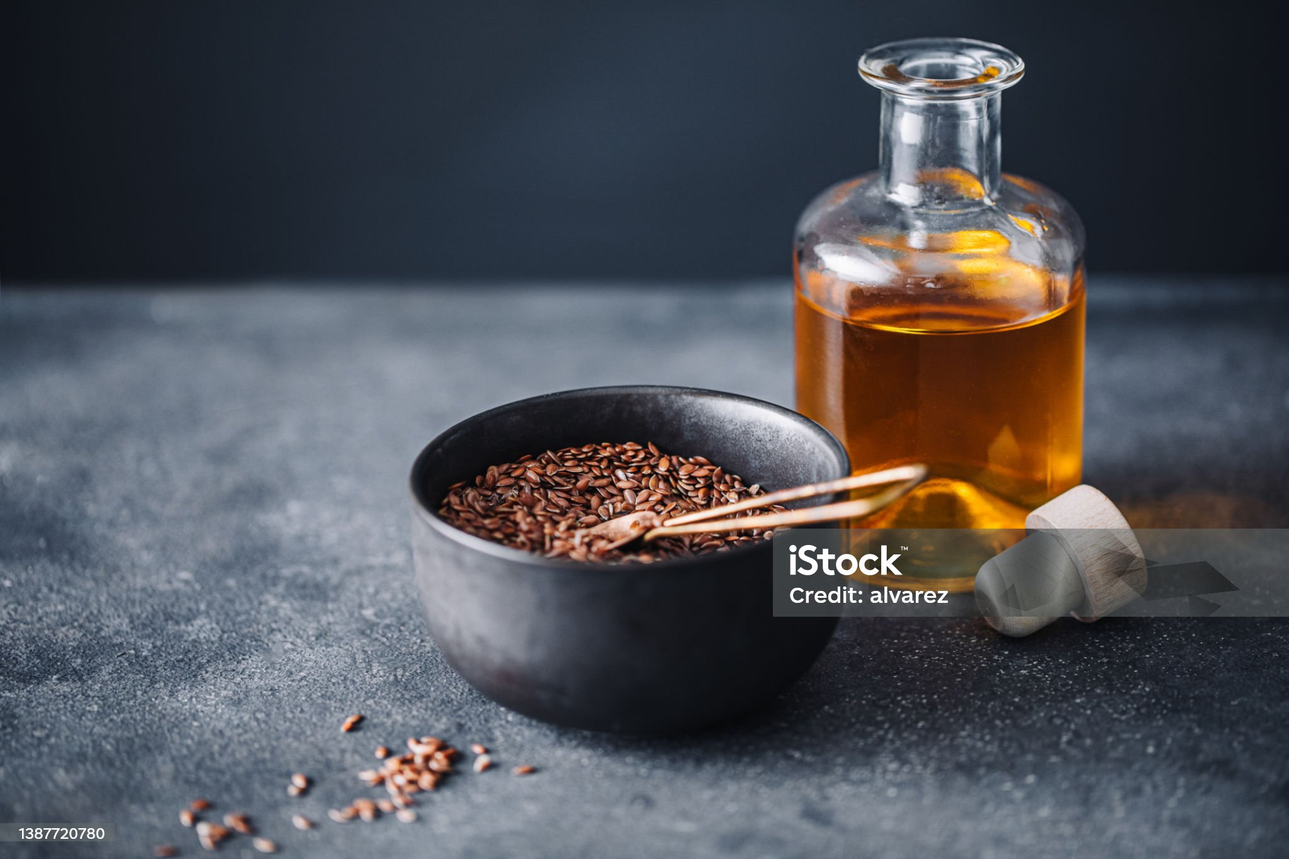
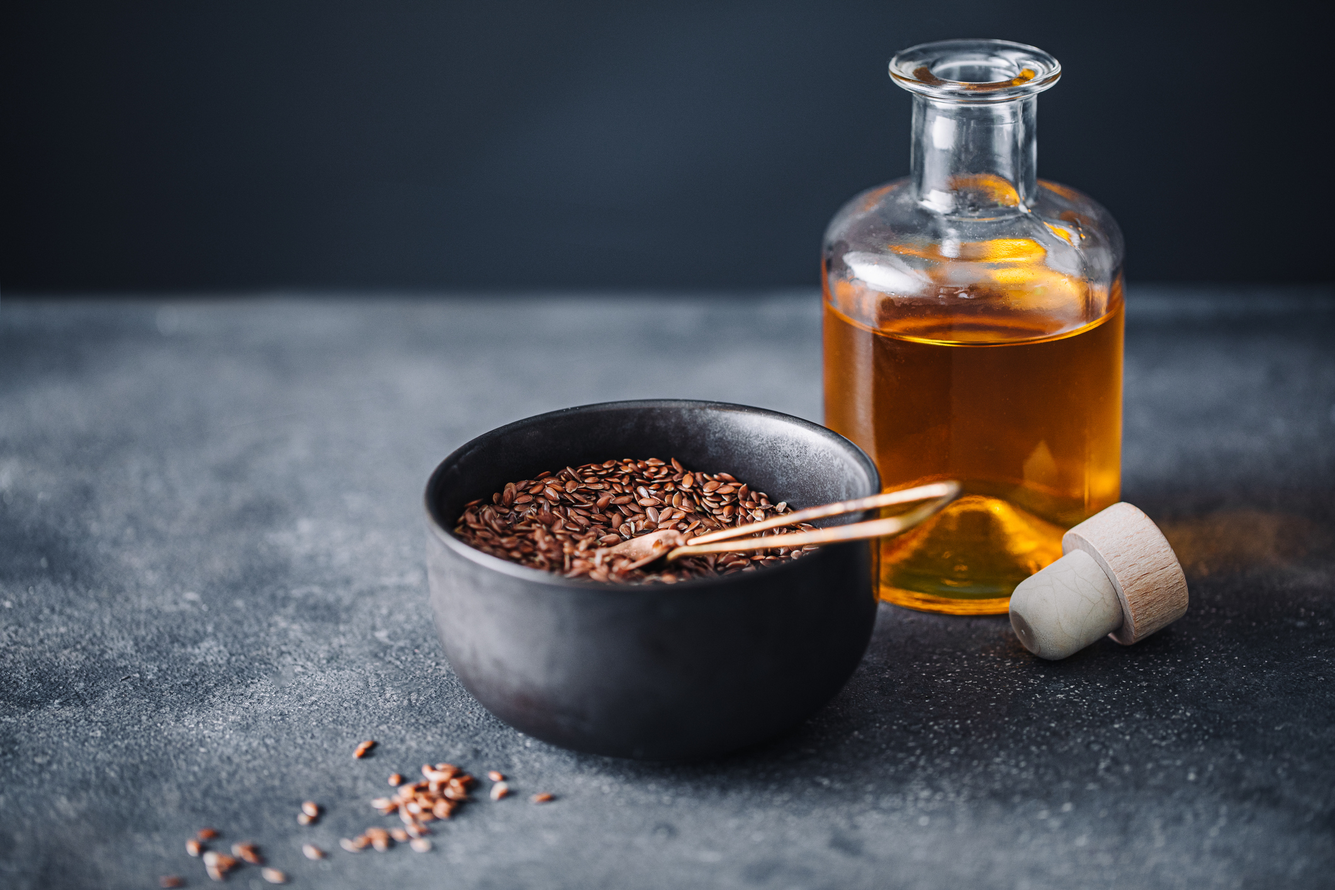
Update photo and scroll highlight effect

Changed region(s): [[0.5938, 0.6154, 1.0, 0.7385], [0.0, 0.9538, 0.0938, 0.9846]]

diff --git a/src/pages/Home.tsx b/src/pages/Home.tsx
@@ -21,39 +21,6 @@ import benefit4 from "../assets/ethically_sourced.jpg";
 // import ScrollFadeText from "../ui/ScrollFadeText";
 
 const Home = () => {
-  // const items = [
-  //   {
-  //     key: "Additive-free",
-  //     description:
-  //       "Our cold-pressed oils are completely additive-free, meaning we skip the chemicals, preservatives, and artificial enhancers that are common in mass-produced oils. By using a traditional cold-pressing method at low temperatures, we extract the pure essence of sesame, black seed, and flaxseed without any need for solvents or synthetic additives. This results in a cleaner, safer product that's free from harmful residues, allowing you to enjoy the authentic taste and health benefits straight from nature. It's ideal for health-conscious cooks who want to avoid hidden ingredients that could compromise well-being or alter flavors in your favorite dishes.",
-  //     image: benefit1,
-  //   },
-  //   {
-  //     key: "Unrefined",
-  //     description:
-  //       "Unlike refined oils that undergo high-heat processing and bleaching, our oils remain unrefined to preserve their natural integrity. The cold-pressing technique gently crushes the seeds at room temperature, retaining the oils' original color, aroma, and texture without stripping away essential compounds. This means our sesame oil keeps its nutty richness, black seed oil its bold, earthy profile, and flaxseed oil its fresh, mild nuttiness. Unrefined oils like ours are perfect for drizzling over salads, dipping bread, or low-heat cooking, delivering a superior sensory experience and avoiding the blandness of overly processed alternatives.",
-  //     image: benefit2,
-  //   },
-  //   {
-  //     key: "Packed with nutrients",
-  //     description:
-  //       "Cold-pressing ensures our oils are bursting with vital nutrients that heat extraction often destroys. We lock in high levels of antioxidants, omega-3 fatty acids (especially abundant in flaxseed oil), vitamins like E and K, and beneficial compounds such as thymoquinone in black seed oil or lignans in sesame oil. These nutrients support heart health, reduce inflammation, boost immunity, and promote glowing skin—making our oils not just a cooking staple but a wellness booster. Whether you're stirring flaxseed oil into smoothies or using sesame oil in stir-fries, you're getting a nutrient-dense option that enhances your diet without the degradation caused by industrial methods.",
-  //     image: benefit3,
-  //   },
-  //   {
-  //     key: "Ethically sourced",
-  //     description:
-  //       "We commit to ethical sourcing by partnering with sustainable farms that prioritize fair labor practices, environmental stewardship, and seed quality. Our sesame, black seed, and flaxseed come from regions where traditional farming respects the land—avoiding pesticides and supporting biodiversity. This approach not only ensures the highest purity but also contributes to community well-being and eco-friendly agriculture. By choosing our oils, you're supporting a transparent supply chain that values people and the planet, aligning your kitchen choices with responsible consumption for a healthier world.",
-  //     image: benefit4,
-  //   },
-  //   // {
-  //   //   key: "Potential Cancer Protection",
-  //   //   description:
-  //   //     "Test-tube and animal studies suggest it could inhibit cancer cell growth in breast, colon, and lung cancers, but human evidence is limited.",
-  //   //   image: benefit5,
-  //   // },
-  // ];
-
   return (
     <>
       <div className="min-h-screen antialiased">
@@ -79,59 +46,6 @@ const Home = () => {
         >
           <WhatWeDo />
         </section>
-
-        {/* Section - Animation */}
-        {/* <section className="rounded py-8 mt-12 sm:py-12 mx-64 my-32 text-pretty text-white text-center text-4xl">
-          <div className="relative flex justify-center items-center gap-20">
-            <p
-              className="relative w-3xs h-72 p-8 flex justify-center items-center bg-[#fac42f] text-shadow-lg
-              animate-[BorderAnimation_3s_linear_infinite] rounded-lg
-              shadow-[inset_20px_20px_40px_10px_rgba(255,255,255,0.8),inset_-3px_-6px_50px_-10px_rgba(0,0,0,0.7)]"
-            >
-              Additive-free
-            </p>
-
-            <p
-              className="relative w-3xs h-60 p-8 flex justify-center items-center bg-[#fac42f] text-shadow-lg
-              animate-[BorderAnimation_6s_linear_infinite] rounded-lg
-              shadow-[inset_15px_10px_50px_20px_rgba(255,255,255,0.8),inset_-5px_-10px_40px_-10px_rgba(0,0,0,0.7)]
-              "
-            >
-              Unrefined
-            </p>
-
-            <p
-              className="relative w-3xs h-84 p-8 flex justify-center items-center bg-[#fac42f] text-shadow-lg
-              animate-[BorderAnimation_7s_linear_infinite] rounded-lg
-              shadow-[inset_20px_20px_30px_5px_rgba(255,255,255,0.8),inset_0px_0px_70px_-20px_rgba(0,0,0,0.7)]"
-            >
-              Packed with nutrients
-            </p>
-
-            <p
-              className="relative w-3xs h-50 p-8 flex justify-center items-center bg-[#fac42f] text-shadow-lg
-              animate-[BorderAnimation_4s_linear_infinite] rounded-lg
-              shadow-[inset_10px_10px_40px_20px_rgba(255,255,255,0.8),inset_-10px_-10px_30px_-20px_rgba(0,0,0,0.7)]"
-            >
-              Ethically sourced
-            </p>
-          </div>
-
-          <div className="flex justify-center">
-            <svg className="animate-spin"></svg>
-          </div>
-
-          <div className="flex justify-center">
-            <span className="relative flex h-16 w-16">
-              <span className="absolute inline-flex h-full w-full animate-ping rounded-full bg-blue-400 opacity-75"></span>
-              <span className="relative inline-flex h-16 w-16 rounded-full bg-blue-500"></span>
-            </span>
-          </div>
-
-          <div className="flex justify-center">
-            <div className="h-16 w-16 animate-[BorderAnimation_4s_linear_infinite] rounded-full bg-blue-500"></div>
-          </div>
-        </section> */}
 
         <section id="id1" className="py-12">
           <WhatWeDoScrollHighlight

diff --git a/src/ui/home/whatWeDoScrollHighlight.tsx b/src/ui/home/whatWeDoScrollHighlight.tsx
@@ -45,10 +45,16 @@ const WhatWeDoScrollHighlight = ({ items }: { items: any[] }) => {
       scrollTrigger: {
         trigger: wrapperRef.current,
         start: "top top",
-        end: "+=2000", // Adjust this value to control how long it takes to scroll through all items
+        end: "+=1000", // Total scroll distance for the pinned section
         pin: true,
         scrub: 0.5, // The number adds a slight 'smooth' delay to the scrub
         invalidateOnRefresh: true,
+        snap: {
+          snapTo: 1 / Math.max(items.length - 1, 1),
+          duration: 0.2,
+          delay: 0,
+          ease: "power1.inOut",
+        },
       },
     });
 
